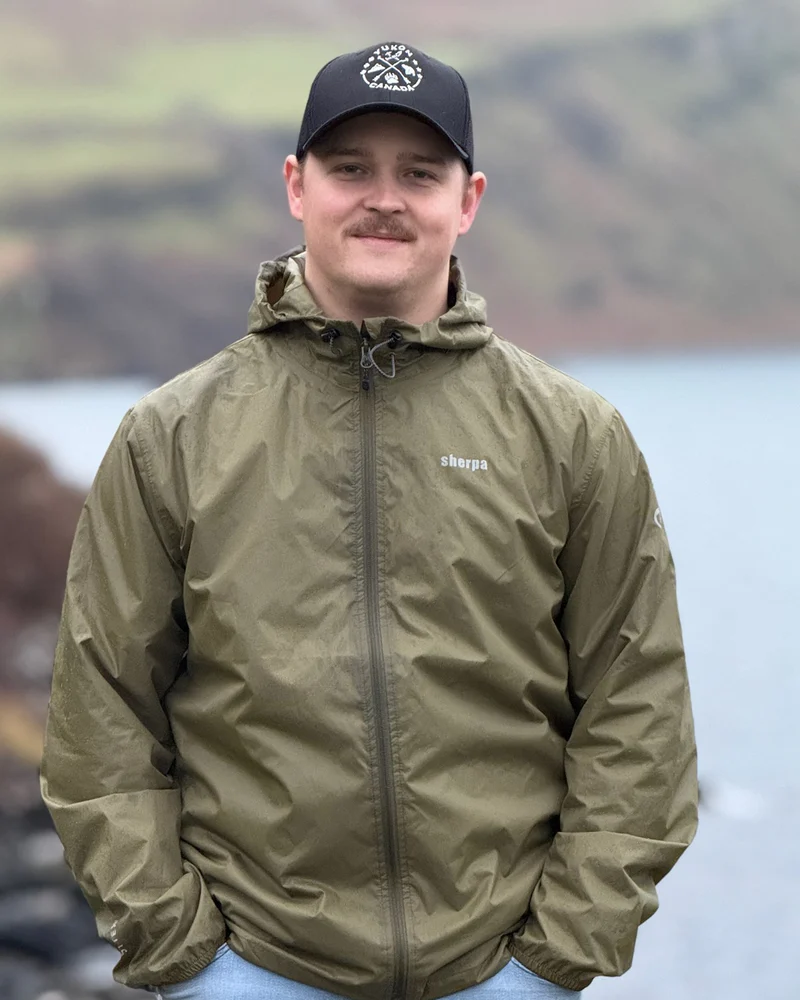
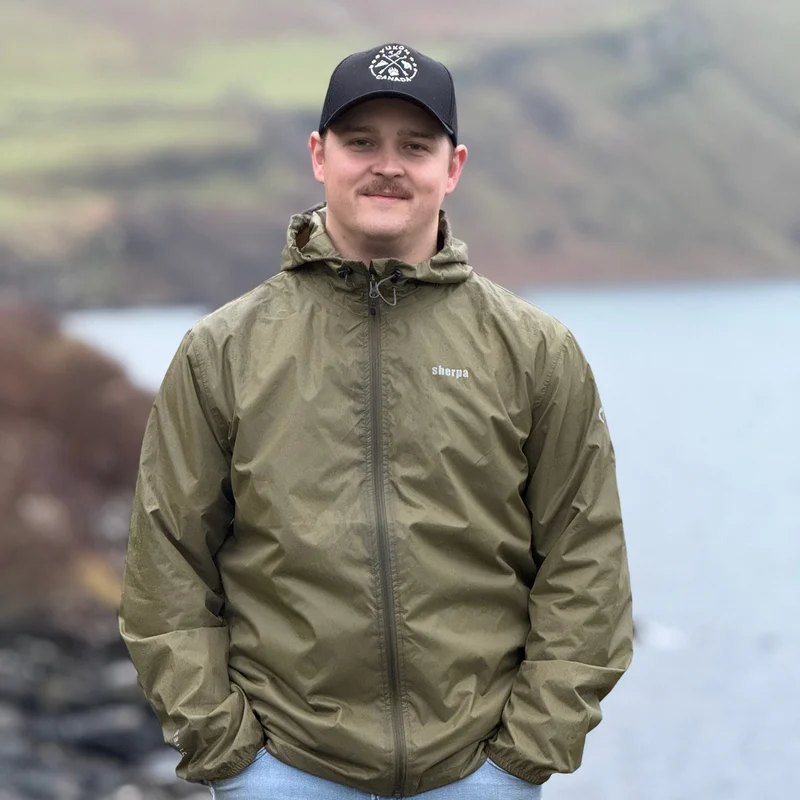
Fix portrait crop and aspect ratio

diff --git a/de/index.html b/de/index.html
@@ -68,7 +68,7 @@
           "@type": "ImageObject",
           "url": "https://nicolaluessi.ch/nicola-luessi-portrait-800.webp",
           "width": 800,
-          "height": 1000,
+          "height": 800,
           "caption": "Porträt von Nicola Lüssi"
         },
         "jobTitle": "Head of Growth Lab",
@@ -178,7 +178,7 @@
             srcset="/nicola-luessi-portrait-400.webp 400w, /nicola-luessi-portrait-800.webp 800w"
             sizes="(max-width: 680px) calc(100vw - 48px), (max-width: 920px) 430px, 330px"
             width="800"
-            height="1000"
+            height="800"
             alt="Porträt von Nicola Lüssi"
             decoding="async">
         </picture>

diff --git a/index.html b/index.html
@@ -67,7 +67,7 @@
           "@type": "ImageObject",
           "url": "https://nicolaluessi.ch/nicola-luessi-portrait-800.webp",
           "width": 800,
-          "height": 1000,
+          "height": 800,
           "caption": "Portrait of Nicola Lüssi"
         },
         "jobTitle": "Head of Growth Lab",
@@ -173,7 +173,7 @@
             srcset="/nicola-luessi-portrait-400.webp 400w, /nicola-luessi-portrait-800.webp 800w"
             sizes="(max-width: 680px) calc(100vw - 48px), (max-width: 920px) 430px, 330px"
             width="800"
-            height="1000"
+            height="800"
             alt="Portrait of Nicola Lüssi"
             decoding="async">
         </picture>

diff --git a/css/style.css b/css/style.css
@@ -297,8 +297,10 @@ a {
 }
 
 .portrait-card > picture > img {
+  display: block;
   width: 100%;
-  aspect-ratio: 4 / 5;
+  height: auto;
+  aspect-ratio: 1;
   object-fit: cover;
 }
 
